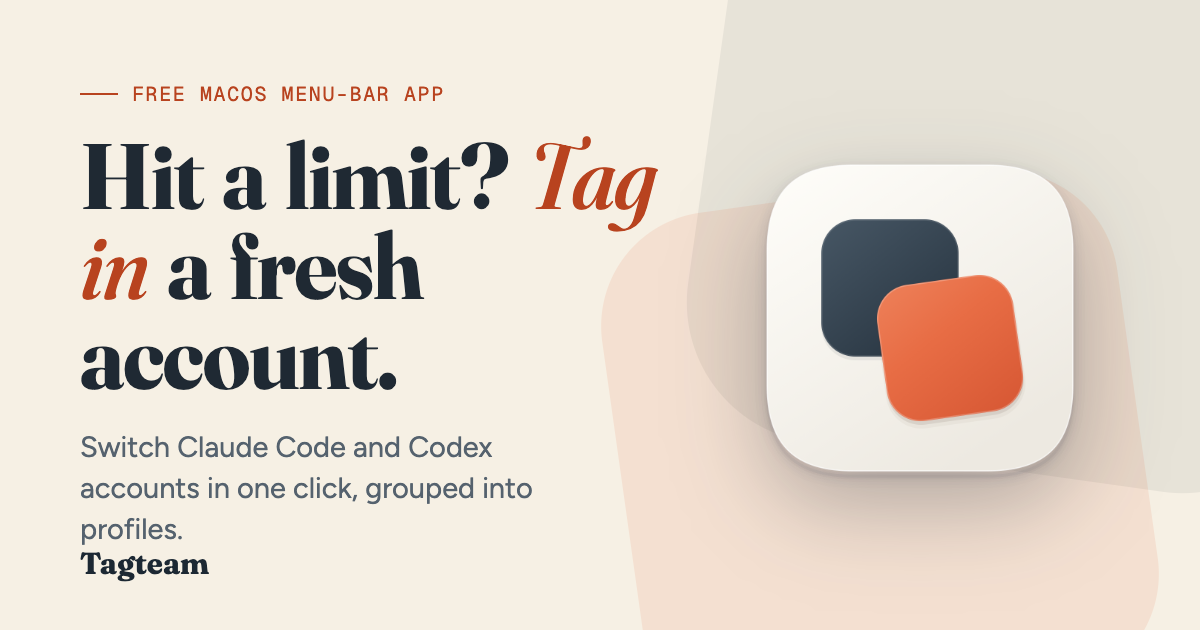
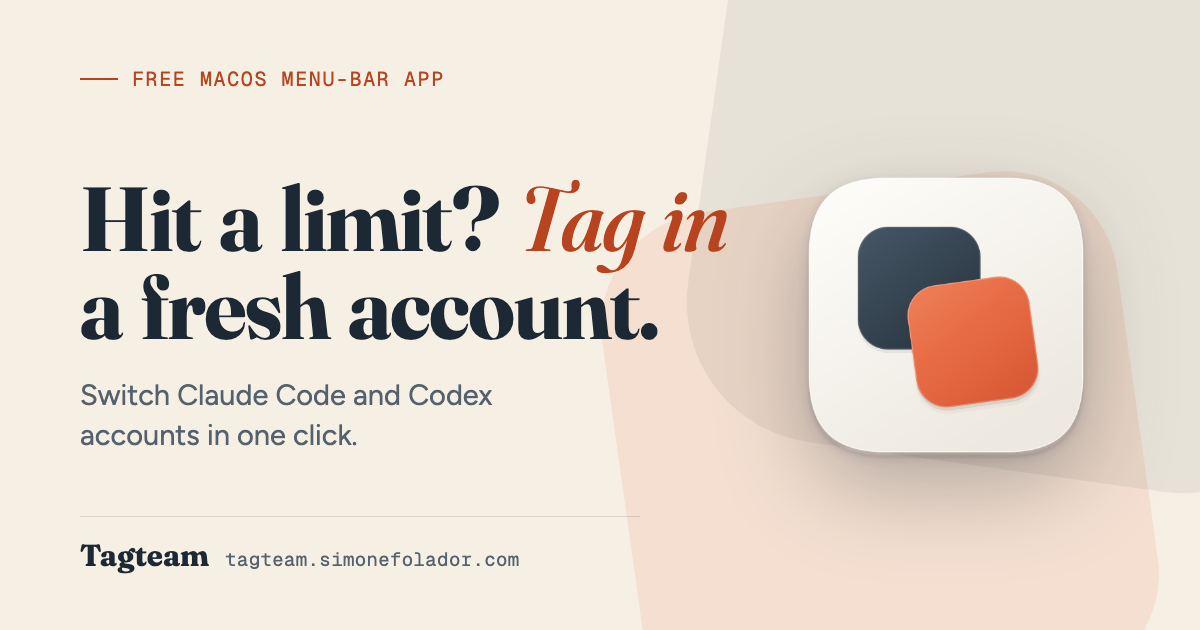
feat(site): Redraw the social card so the footer never overlaps the copy
The subtitle wrapped to three lines and ran into the absolutely positioned
wordmark. Copy and footer now share one flex column, the subtitle is short
enough for two lines, and the footer adds the site's domain. The card URL
gets ?v=2 so X and LinkedIn fetch the new image instead of their cached one.

diff --git a/Design/social-card.html b/Design/social-card.html
@@ -25,14 +25,18 @@ body { font-family: "Figtree", sans-serif; color: #1f2933; }
 .tile { position: absolute; border-radius: 22%; z-index: -1; }
 .tile.a { width: 640px; height: 640px; right: -150px; top: -170px; background: var(--slate); opacity: .07; transform: rotate(8deg); }
 .tile.b { width: 520px; height: 520px; right: 60px; top: 190px; background: var(--orange); opacity: .12; transform: rotate(-8deg); }
-.copy { position: absolute; left: 80px; top: 0; bottom: 0; width: 650px; display: flex; flex-direction: column; justify-content: center; }
+/* Copy and footer share one flex column, so a longer line pushes the footer instead of overlapping it. */
+.copy { position: absolute; left: 80px; top: 66px; bottom: 56px; width: 650px; display: flex; flex-direction: column; }
+.lede { margin: auto 0; }
 .eyebrow { font-family: "Geist Mono", monospace; font-size: 20px; letter-spacing: .08em; text-transform: uppercase; color: var(--deep); display: flex; align-items: center; gap: 14px; }
 .eyebrow::before { content: ""; width: 38px; height: 2px; background: currentColor; }
-h1 { font-family: "Fraunces", serif; font-size: 92px; line-height: .98; letter-spacing: -.012em; word-spacing: .06em; font-weight: 700; margin: 24px 0 26px; font-variation-settings: "opsz" 96; }
+h1 { font-family: "Fraunces", serif; font-size: 90px; line-height: .98; letter-spacing: -.012em; word-spacing: .06em; font-weight: 700; margin: 22px 0 24px; font-variation-settings: "opsz" 96; color: var(--slate-d); }
 h1 em { font-style: italic; font-weight: 500; color: var(--deep); }
-p { margin: 0; font-size: 29px; line-height: 1.4; color: var(--muted); max-width: 17em; }
-.name { position: absolute; left: 80px; bottom: 48px; font-family: "Fraunces", serif; font-weight: 700; font-size: 30px; color: var(--slate-d); }
-.icon { position: absolute; right: 90px; top: 128px; width: 380px; height: 380px; filter: drop-shadow(0 34px 44px rgba(28,40,51,.3)); }
+p { margin: 0; font-size: 29px; line-height: 1.38; color: var(--muted); max-width: 18em; }
+.foot { width: 560px; display: flex; align-items: baseline; gap: 16px; padding-top: 20px; border-top: 1.5px solid rgba(38,49,60,.14); }
+.name { font-family: "Fraunces", serif; font-weight: 700; font-size: 30px; color: var(--slate-d); }
+.url { font-family: "Geist Mono", monospace; font-size: 19px; letter-spacing: .02em; color: var(--muted); }
+.icon { position: absolute; right: 84px; top: 145px; width: 340px; height: 340px; filter: drop-shadow(0 34px 44px rgba(28,40,51,.3)); }
 </style>
 </head>
 <body>
@@ -40,10 +44,12 @@ p { margin: 0; font-size: 29px; line-height: 1.4; color: var(--muted); max-width
   <i class="tile a"></i><i class="tile b"></i>
   <div class="copy">
     <div class="eyebrow">Free macOS menu-bar app</div>
-    <h1>Hit a limit? <em>Tag in</em> a fresh account.</h1>
-    <p>Switch Claude Code and Codex accounts in one click, grouped into profiles.</p>
+    <div class="lede">
+      <h1>Hit a limit? <em>Tag in</em> a fresh account.</h1>
+      <p>Switch Claude Code and Codex accounts in one click.</p>
+    </div>
+    <div class="foot"><span class="name">Tagteam</span><span class="url">tagteam.simonefolador.com</span></div>
   </div>
-  <div class="name">Tagteam</div>
   <img class="icon" src="../assets/Tagteam-icon.png" alt="">
 </div>
 </body>

diff --git a/site/public/index.html b/site/public/index.html
@@ -12,14 +12,14 @@
 <meta property="og:title" content="Tagteam — Switch Claude Code and Codex accounts from the menu bar">
 <meta property="og:description" content="When one account hits its limit, tag in a fresh one. Claude Code and Codex accounts, grouped into profiles, on macOS.">
 <meta property="og:url" content="https://tagteam.simonefolador.com/">
-<meta property="og:image" content="https://tagteam.simonefolador.com/social-card.png">
+<meta property="og:image" content="https://tagteam.simonefolador.com/social-card.png?v=2">
 <meta property="og:image:width" content="1200">
 <meta property="og:image:height" content="630">
 <meta property="og:image:alt" content="Tagteam: switch Claude Code and Codex accounts from the macOS menu bar">
 <meta name="twitter:card" content="summary_large_image">
 <meta name="twitter:title" content="Tagteam — Switch Claude Code and Codex accounts from the menu bar">
 <meta name="twitter:description" content="When one account hits its limit, tag in a fresh one. Profiles for Claude Code and Codex on macOS.">
-<meta name="twitter:image" content="https://tagteam.simonefolador.com/social-card.png">
+<meta name="twitter:image" content="https://tagteam.simonefolador.com/social-card.png?v=2">
 <meta name="twitter:image:alt" content="Tagteam: switch Claude Code and Codex accounts from the macOS menu bar">
 <link rel="icon" type="image/png" sizes="32x32" href="/icon-32.png">
 <link rel="icon" type="image/png" sizes="64x64" href="/icon-64.png">
